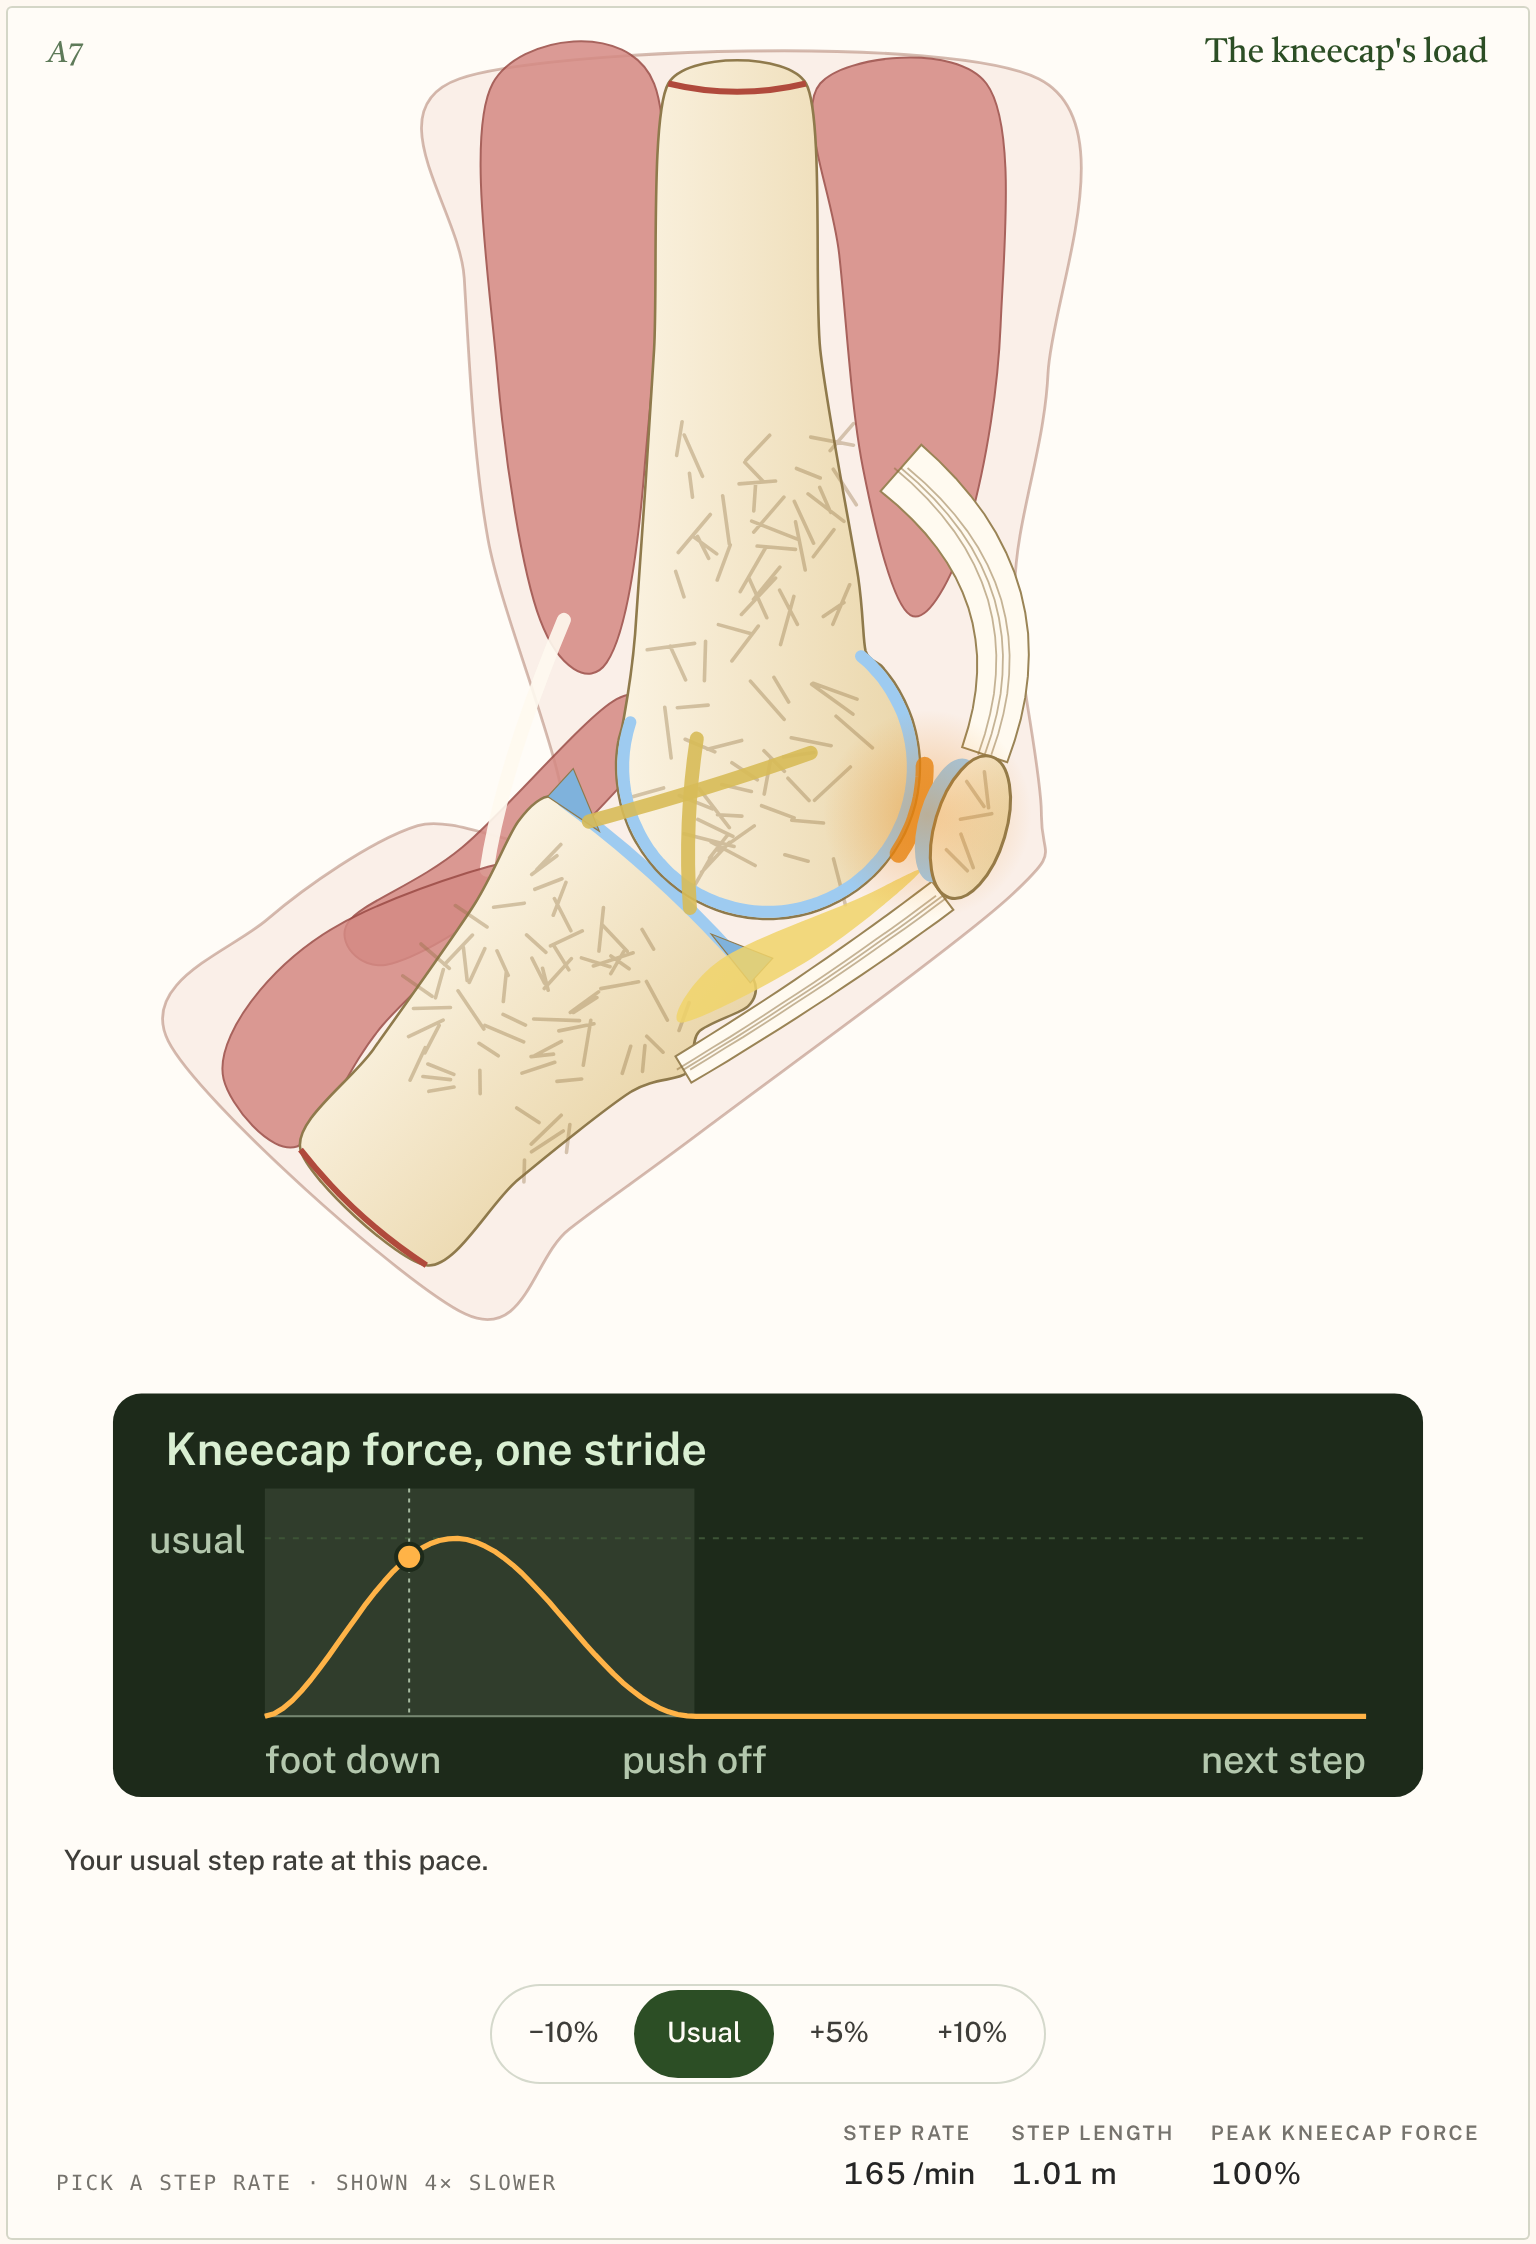
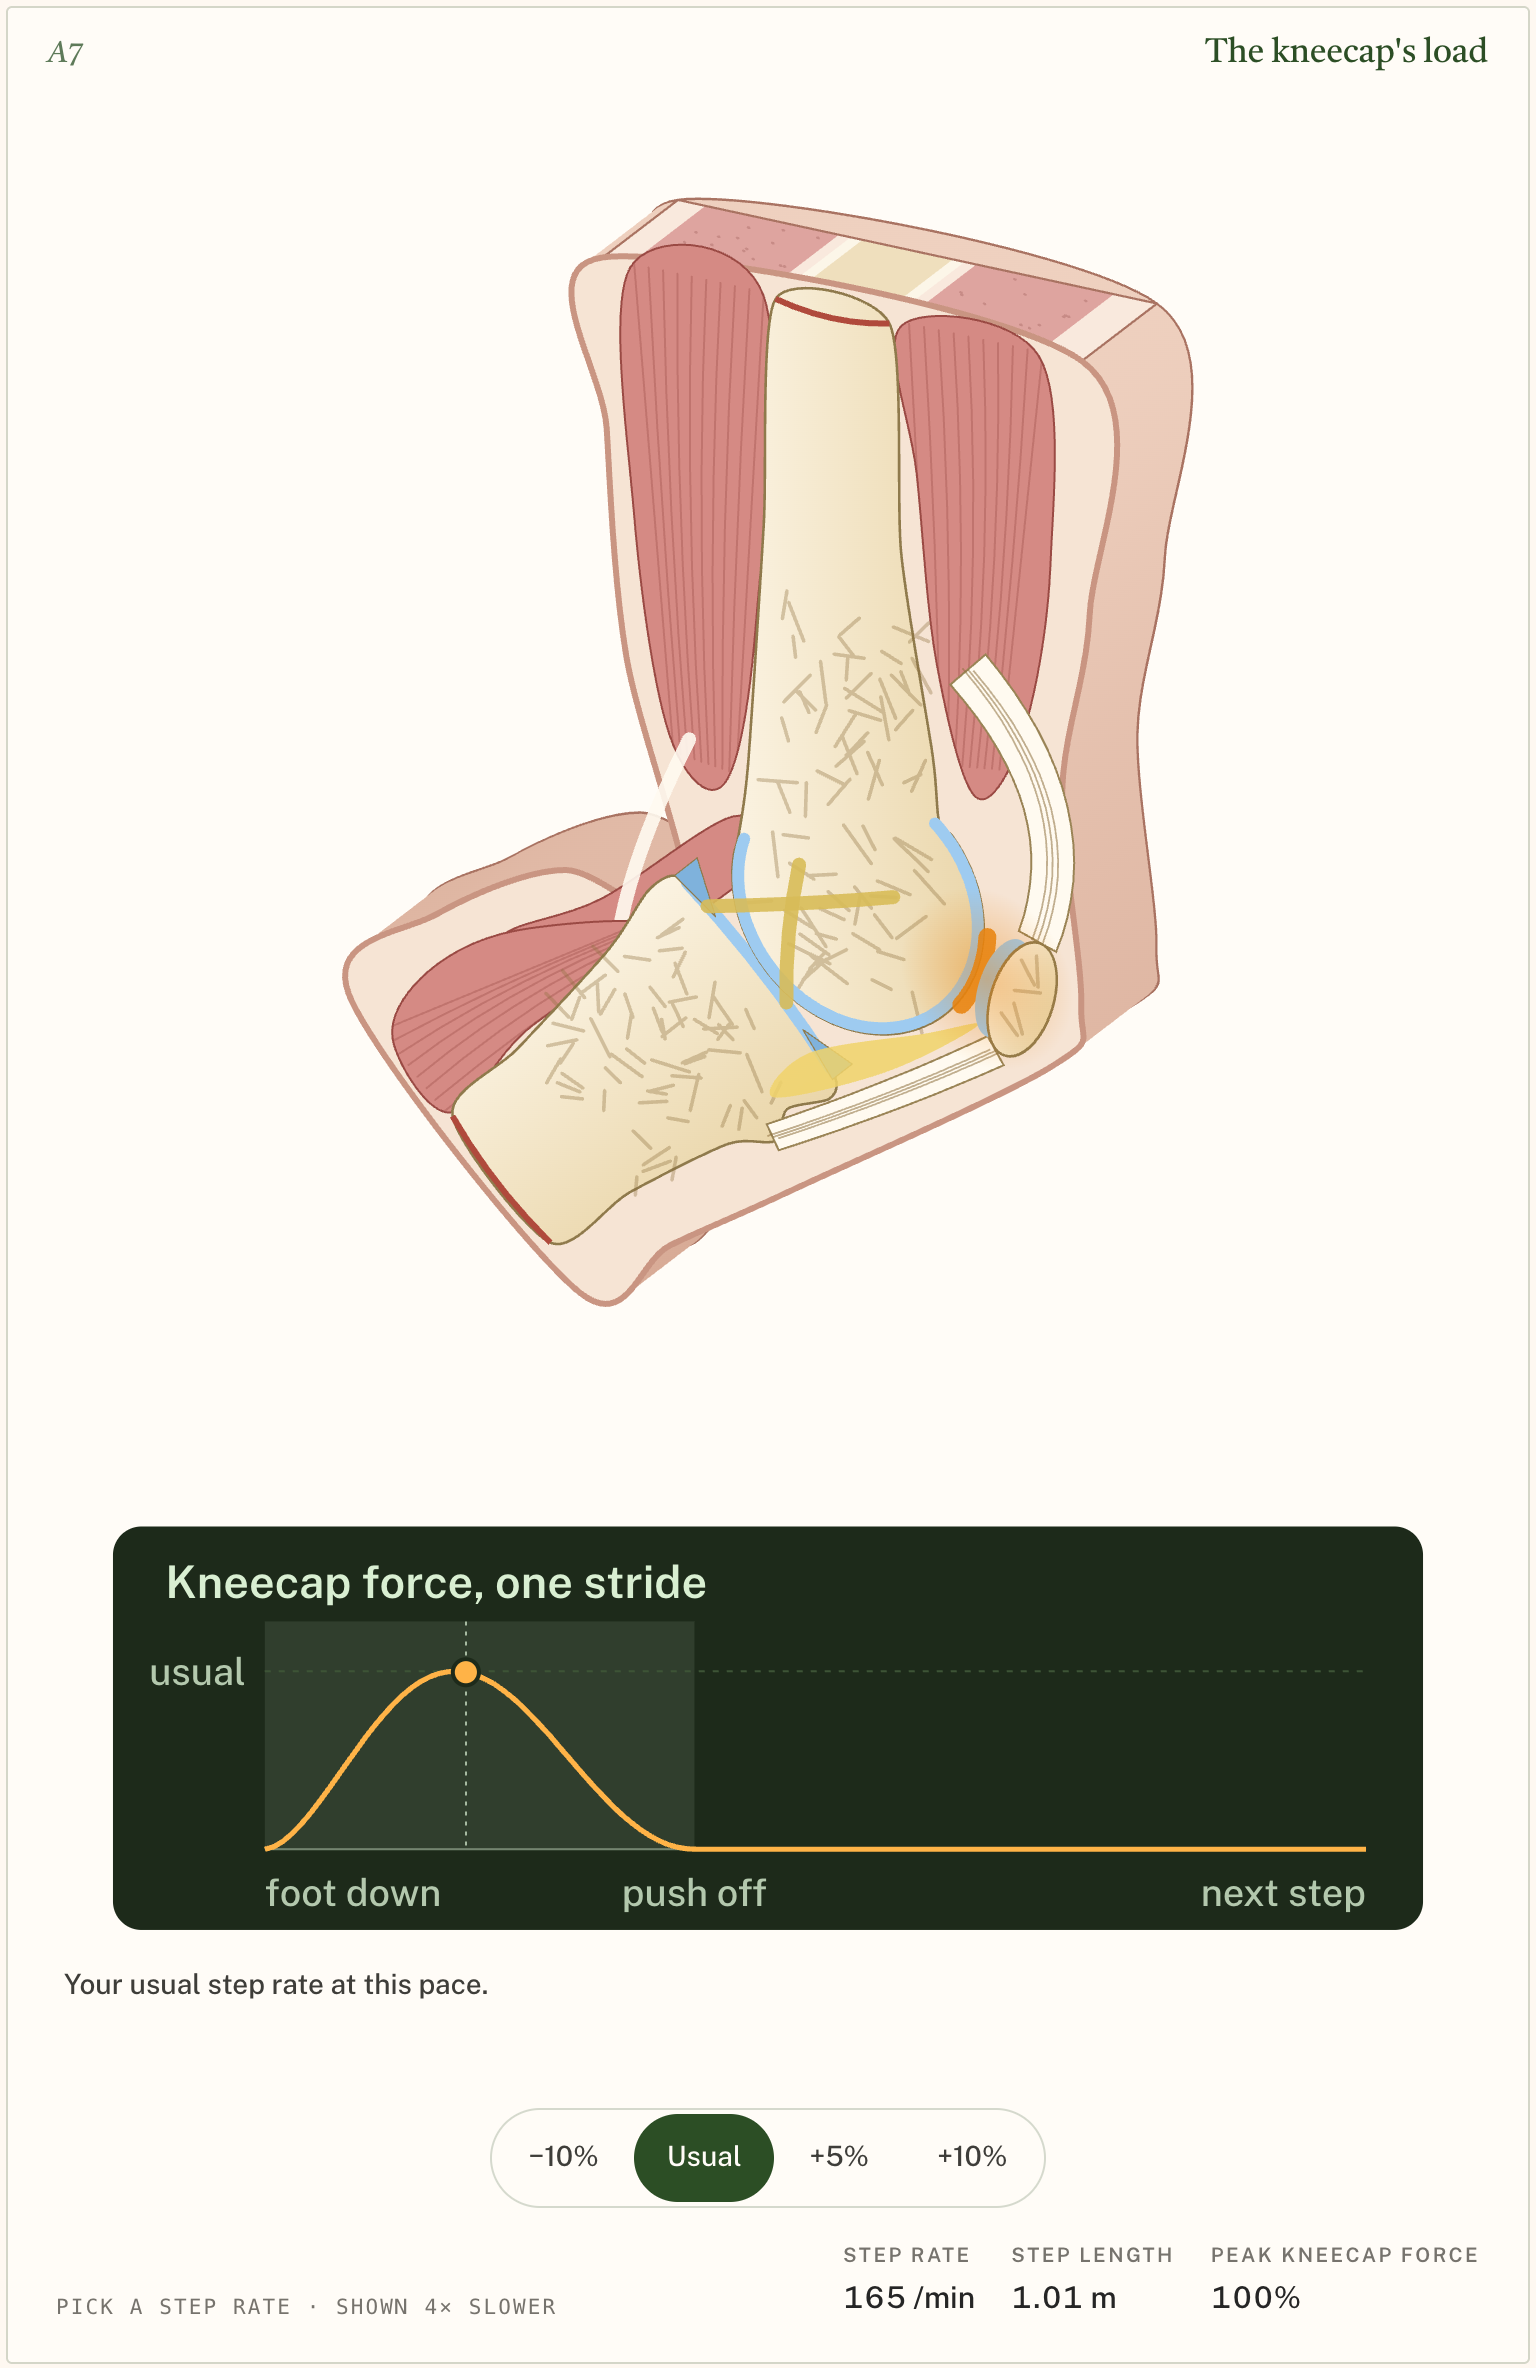
A7: the knee becomes a 3-D specimen slab (organ-piece approach)
The side section is now the cut face of a thick slice of the knee, in
the series camera (azimuth 62°, elevation 24°). This is the proposed
approach for the organ pieces (A2, A4, A6, A7). The other three wait
for Peter's OK.

- Outer surface: 50 <use> clones of one hidden outline path,
  translated back through the slice depth (the depth vector solved in
  the cut face's own coordinates). live.js already computes the skin
  outline each frame and now also writes it to #a7-sil, so the walls
  follow the swinging shin with no new geometry.
- Top: the thigh cut across, in bands: skin and fat, hamstrings, femur
  (cortex and cancellous bone), quadriceps. The shin's cut end faces
  away for every bend from 0° to 105°, so it isn't drawn.
- Cut face made opaque (soft tissue, solid muscle), with fascicle
  lines along the quadriceps, hamstrings and calf.
- The camera is fitted to the whole stride's reach, and the monitor
  sits underneath.
- Verified: 390/360/320 in both themes, reduced motion and desktop
  (peak force and deep swing). No sideways scroll, console clean,
  line ends 0.

diff --git a/figures/a7-knee/live.js b/figures/a7-knee/live.js
@@ -1,6 +1,6 @@
 // A7 live code: one running stride, slowed. The tibia swings about the condyle by bendAt(φ);
 // the kneecap is placed on its groove where the patellar tendon (fixed length) reaches the
-// tibial tuberosity; tendons, fat pad, ligaments, calf and skin follow. While the foot is down,
+// tibial tuberosity; tendons, fat pad, ligaments, calf and skin (and the slab's outer surface) follow. While the foot is down,
 // the kneecap's contact glows with pfAt(φ) from Fig 4's kneeOf.
 const DATA = __DATA__;
 
@@ -123,7 +123,10 @@ function mount(fig) {
     const ho = [CF[0] + RC * Math.cos(195 * RAD), CF[1] + RC * Math.sin(195 * RAD)];
     set("gastro", "d", smoothP([[ho[0] - 2, ho[1] - 12], [ho[0] + 14, ho[1] + 6], W([-44, 112]), W([-62, 170]), W([-86, 168]), W([-72, 112])]));
     set("hamt", "d", `M214 214Q${f1((214 + W([-58, 112])[0]) / 2 - 10)} ${f1((214 + W([-58, 112])[1]) / 2 + 10)} ${f1(W([-58, 112])[0])} ${f1(W([-58, 112])[1])}`);
-    set("skin", "d", smoothP([[170, -14], [414, -14], [418, 110], [404, 200], patLocal(alpha, [32, -14]), patLocal(alpha, [30, 22]), W([84, 128]), W([70, 200]), W([62, 256]), W([-108, 256]), W([-112, 190]), W([-92, 118]), [214, CF[1] + 26], [182, 180], [172, 70]], true, 0.9));
+    const skin = smoothP([[170, -14], [414, -14], [418, 110], [404, 200], patLocal(alpha, [32, -14]), patLocal(alpha, [30, 22]), W([84, 128]), W([70, 200]), W([62, 256]), W([-108, 256]), W([-112, 190]), W([-92, 118]), [214, CF[1] + 26], [182, 180], [172, 70]], true, 0.9);
+    set("skin", "d", skin);
+    // the slab's outer surface is the same outline swept back (stacked <use> clones of this path)
+    q('[data-part="sil"]')?.setAttribute("d", skin);
     // monitor
     const xOf = (p) => MON.x0 + p * (MON.x1 - MON.x0);
     const yOf = (v) => MON.y0 - (v / MON.max) * (MON.y0 - MON.y1);

diff --git a/figures/a7-knee/figure.css b/figures/a7-knee/figure.css
@@ -51,3 +51,20 @@
 .a7-par { display: block; margin-top: 6px; }
 .a7-par:first-child { margin-top: 0; }
 .a7-par small { font-size: 12.5px; color: var(--anatomy-muted); }
+
+/* the slab: a thick slice of the knee as a specimen (round 2) */
+.iso.optimal { --a7-soft: #4a3029; --a7-dermis: #a5786b; --a7-w0: #7d5649; --a7-w1: #4b3029; --a7-wall-edge: #c4978a; --a7-top-soft: #6e4a3f; --a7-top-light: rgba(255, 236, 220, 0.08); }
+.iso.optimal[data-theme="light"] { --a7-soft: #f6e4d4; --a7-dermis: #c99582; --a7-w0: #f0d3c2; --a7-w1: #d5a691; --a7-wall-edge: #a97362; --a7-top-soft: #f7e3d3; --a7-top-light: rgba(255, 255, 255, 0.22); }
+.a7-slab .a7-skin { fill: var(--a7-soft); stroke: var(--a7-dermis); stroke-width: 3; }
+.a7-slab .a7-quad, .a7-slab .a7-ham, .a7-slab .a7-gastro, .a7-slab .a7-calf { opacity: 1; }
+.a7-wall { fill: url(#a7-wallg); }
+.a7-wall-back { stroke: var(--a7-wall-edge); stroke-width: 1.2; stroke-linejoin: round; }
+.a7-w0 { stop-color: var(--a7-w0); } .a7-w1 { stop-color: var(--a7-w1); }
+.a7-fasc { fill: none; stroke: var(--a7-muscle-edge); stroke-width: 1; opacity: 0.35; stroke-linecap: round; }
+.a7-top-soft { fill: var(--a7-top-soft); }
+.a7-top-muscle { fill: var(--a7-muscle); }
+.a7-top-bone { fill: var(--a7-bg1); }
+.a7-top-cortex { fill: var(--a7-bg0); }
+.a7-top-fasc { fill: var(--a7-muscle-edge); opacity: 0.5; }
+.a7-top-light { fill: var(--a7-top-light); }
+.a7-top-edge { fill: none; stroke: var(--a7-wall-edge); stroke-width: 1.1; stroke-linejoin: round; }

diff --git a/figures/a7-knee/NOTES.md b/figures/a7-knee/NOTES.md
@@ -1,6 +1,6 @@
 # A7 · The kneecap's load
 
-**What it is:** the knee in side section, front to the right, through one running stride shown 4× slower. It is the inside view of Fig 4 (Creator 600). Hand-drawn organic SVG in the A-series style:
+**What it is:** a thick slice of the knee as an anatomical specimen in isometric 3-D (round 2, 2026-10-12). Its cut face is the knee in side section, front to the right, through one running stride shown 4× slower. It is the inside view of Fig 4 (Creator 600). The section is hand-drawn organic SVG in the A-series style:
 - the femur, fixed in view, with a trabecular texture and a cut end;
 - the tibia swinging about the condyle;
 - the kneecap gliding in its groove on a fixed-length patellar tendon;
@@ -32,12 +32,43 @@
 - **Offscreen:** rendering stops out of view.
 - **Reduced motion:** one still at mid-stance, the deepest bend and most force.
 
-## Verification (2026-10-12)
+## Round 2 (2026-10-12): the specimen slab, the approach for the organ pieces
 
-- No console errors.
-- No sideways scroll at 390, 360 or 320, in both themes.
-- `lines.mjs`: 0 (no kit lines).
-- Captures: `shots/phone-{390,360,320}-{dark,light}.png`, `shots/desktop-{dark,light}.png` (mid-stance), `shots/desktop-swing-{dark,light}.png` (deep swing), `shots/reduced-390-*.png`, `shots/embed.png`.
+Peter's decision: every A-piece goes 3-D. The organ pieces (A2, A4, A6, A7) don't fit a tissue block, so A7 tries the approach for all four first; **A2, A4 and A6 wait for Peter's OK.**
+
+**Approach:** HANDOFF-LOCAL §5.2 option (a), "a deep slab", done in true isometric rather than as a plate under a flat drawing.
+- The section becomes the cut face of a thick slice of the organ, in the same camera as the blocks (azimuth 62°, elevation 24°).
+- The organ's outline is swept back through the slice's thickness to make its outer surface.
+- Where the slice is cut across, the cut end shows its own section.
+
+**Why this over the other two §5.2 options:**
+- (b) shading alone keeps the pieces flat, in a different camera from the blocks;
+- (c) a true isometric rebuild would mean redrawing and re-solving every moving part.
+
+**Construction (A7):**
+- **Cut face:** the original section, unchanged, placed with `planeMatrix` on the slice's front plane (y = DEP). `live.js` still draws everything in section coordinates.
+- **Outer surface (skin):** live. One hidden path (`#a7-sil`) carries the skin outline that `live.js` already computes each frame. 50 `<use>` clones of it are translated back through the slice depth (the depth vector expressed in the cut face's own coordinates, `WD` = M⁻¹·v), so the walls follow the swinging shin with no extra geometry.
+  - Fill: a vertical gradient.
+  - The back clone carries the far edge line.
+  - Because a prism's visible surface is exactly its front face plus its swept outline, this is correct in every pose.
+- **Top (thigh cut across):** static bands: skin and fat | hamstrings | femur (cortex and cancellous bone) | quadriceps | skin and fat, with fascicle dots in the muscles.
+- **Shin cut across:** never visible. Its outward normal points away from the viewer for every bend from 0° to 105°, so it isn't drawn.
+- **Cut face, made opaque:** soft tissue fills the skin outline, the muscles are solid, and fascicle lines run along the quadriceps, hamstrings and calf (clipped to each muscle).
+- **Slice depth:** 72 units (about 35 mm at the section's scale).
+- **Size:** the camera is fitted to the section's reach over a whole stride (straight at foot contact, 105° in swing), so nothing clips in any pose. The monitor sits flat underneath, and the view is 600 × 772.
+
+**live.js change:** one line. `draw()` also writes the skin outline to `#a7-sil`.
+
+## Verification (2026-10-12, slab, local)
+
+- `node scripts/verify.mjs a7-knee`: passed.
+- No console errors, and no sideways scroll at 390, 360 or 320 in either theme.
+- `lines.mjs`: 0.
+- Reduced motion draws one still at mid-stance.
+- Captures:
+  - `shots/phone-{390,360,320}-{dark,light}.png` and `shots/desktop-{dark,light}.png` (Usual, at the peak kneecap force);
+  - `shots/desktop-swing-{dark,light}.png` (deep swing);
+  - `shots/reduced-390-*.png`.
 
 ## Embed
 

diff --git a/HANDOFF-LOCAL.md b/HANDOFF-LOCAL.md
@@ -37,7 +37,7 @@ claude                                # Claude Code reads CLAUDE.md on start
 | A4 | Beating heart | Built, round 2 (flat, organ) | `a4-heart` |
 | A5 | Air sac and red cell | **Round 2 · 3-D block of lung** (2026-10-12): Voronoi foam cut on three faces, one sac opened with its bowl, duct to the top | `a5-alveolus` |
 | A6 | Red cell's 120 days | Built (flat, a loop diagram) | `a6-red-cell-cycle` |
-| A7 | Kneecap's load | Built (flat, side section) | `a7-knee` |
+| A7 | Kneecap's load | **Round 2 · 3-D specimen slab** (2026-10-12): the organ-piece approach, **waiting on Peter's OK** before A2/A4/A6 | `a7-knee` |
 | A8 | Water in and around the fibres | **Round 2 · 3-D bundle**: slice on the face of a muscle cylinder; body redrawn live | `a8-muscle-water` |
 | A9 | Digging and filling (bone) | **Round 2 · 3-D block**; caption uses the Menopause Protocol's Greendale numbers | `a9-bone-remodelling` |
 

diff --git a/BACKLOG.md b/BACKLOG.md
@@ -40,7 +40,8 @@ Each piece is done when it meets the same bar as HANDOFF §2, adapted:
 | A9 | done: bone-and-marrow block |
 | A1 | done: gut-lining block (brush border on top, cells on the end face), 2026-10-12 |
 | A5 | done: lung-tissue block with the air sac opened (2026-10-12) |
-| A2, A4, A6, A7 | organ or diagram pieces: ask Peter which treatment (HANDOFF-LOCAL §5.2) |
+| A7 | done: specimen slab (cut face + swept live outline + cut ends), 2026-10-12 |
+| A2, A4, A6 | same slab approach once Peter OKs A7 |
 
 Recipe: HANDOFF-LOCAL §6.
 
